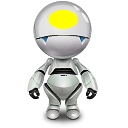
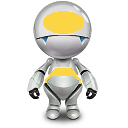
Improved Online LitterWorld demo
- Sensor to notify should_patrol and map_loaded
- Improved UI and graphical assets

Changed region(s): [[0.3125, 0.0625, 0.6562, 0.2812], [0.3438, 0.5312, 0.6562, 0.6562]]

diff --git a/simulations/ros2_bdi_on_litter_world/src/litter_world/recycling_agent/sensors/agent_area_sensor.cpp b/simulations/ros2_bdi_on_litter_world/src/litter_world/recycling_agent/sensors/agent_area_sensor.cpp
@@ -35,6 +35,8 @@ class AgentAreaSensor : public Sensor
         {
             srand (time (NULL));
             
+            this->declare_parameter("should_patrol", false);
+
             robot_name_ = this->get_parameter("agent_id").as_string();
             
             last_pose_.x = -1;
@@ -115,20 +117,24 @@ class AgentAreaSensor : public Sensor
         */
         void senseNewAgentPose(const Pose& curr_agent_pose, const Belief& proto_belief_agent_pose)
         {
+            // old agent position belief 
+            auto belief_agent_pose_del = proto_belief_agent_pose;
+            belief_agent_pose_del.params[0] = robot_name_;
+            belief_agent_pose_del.params[1] = buildCellName(last_pose_.x,last_pose_.y);
+
+            // new agent position belief
+            auto belief_agent_pose_add = proto_belief_agent_pose;
+            belief_agent_pose_add.params[0] = robot_name_;
+            belief_agent_pose_add.params[1] = buildCellName(curr_agent_pose.x,curr_agent_pose.y);
+
             if(curr_agent_pose.x != last_pose_.x || curr_agent_pose.y != last_pose_.y)
             {
                 // agent position has changed
                 same_pose_counter_ = 0; // reset same pose counter
                 // delete old agent position
-                auto belief_agent_pose_del = proto_belief_agent_pose;
-                belief_agent_pose_del.params[0] = robot_name_;
-                belief_agent_pose_del.params[1] = buildCellName(last_pose_.x,last_pose_.y);
                 sense(belief_agent_pose_del, UpdOperation::DEL);
 
                 // add new agent position
-                auto belief_agent_pose_add = proto_belief_agent_pose;
-                belief_agent_pose_add.params[0] = robot_name_;
-                belief_agent_pose_add.params[1] = buildCellName(curr_agent_pose.x,curr_agent_pose.y);
                 sense(belief_agent_pose_add, UpdOperation::ADD);
             }
             else
@@ -136,9 +142,15 @@ class AgentAreaSensor : public Sensor
             
             if(same_pose_counter_ > MAX_SAME_POSE)
             {
-                std::cout << "In the same position for too long..." << std::flush << std::endl;
-                senseShouldPatrol();
-                same_pose_counter_ = 0;
+                // make sure agent knows its current position
+                sense(belief_agent_pose_add, UpdOperation::ADD);
+
+                if(this->get_parameter("should_patrol").as_bool())
+                {
+                    std::cout << "In the same position for too long, triggering patrol mode..." << std::flush << std::endl;
+                    senseShouldPatrol();
+                    same_pose_counter_ = 0;
+                }
             }
         }
 

diff --git a/simulations/ros2_bdi_on_litter_world/src/litter_world/recycling_agent/sensors/load_map_sensor.cpp b/simulations/ros2_bdi_on_litter_world/src/litter_world/recycling_agent/sensors/load_map_sensor.cpp
@@ -76,10 +76,17 @@ class LoadMapSensor : public Sensor
                                     bsetAddAll.value.push_back(b);
                                 
                                 // std::cout << "sensing " << binPoses.size() << " binPoses" << std::flush << std::endl;
-                                senseAll(bsetAddAll, UpdOperation::ADD);
+                                if(belief_set_.value.size() < bsetAddAll.value.size())//still need to load all static info
+                                    senseAll(bsetAddAll, UpdOperation::ADD);
 
-                                if(belief_set_.value.size() >= bsetAddAll.value.size())//loaded all static info -> can quit
-                                    rclcpp::shutdown();
+                                else // loaded all static info -> can quit
+                                {
+                                    Belief bMapLoaded = getBeliefPrototype("map_loaded").value();
+                                    sense(bMapLoaded, UpdOperation::ADD);
+                                    for(auto b : belief_set_.value)
+                                        if(b.name == "map_loaded")//map loaded and agent knows it->can quit
+                                            rclcpp::shutdown();
+                                }
                             }
                         });
         }
@@ -208,12 +215,15 @@ int main(int argc, char ** argv)
   Belief b_proto_plastic_bin = (ManagedBelief::buildMBInstance("?pb", "plastic_bin")).toBelief();
   Belief b_proto_paper_bin = (ManagedBelief::buildMBInstance("?pb", "paper_bin")).toBelief();
   Belief b_proto_bin_pose = (ManagedBelief::buildMBPredicate("bin_pose", {ManagedParam{"?b", "bin"}, ManagedParam{"?c", "cell"}})).toBelief();
+  Belief b_proto_map_loaded = (ManagedBelief::buildMBPredicate("map_loaded", {})).toBelief();
   vector<Belief> proto_beliefs;
   proto_beliefs.push_back(b_proto_near);
   proto_beliefs.push_back(b_proto_free);
   proto_beliefs.push_back(b_proto_plastic_bin);
   proto_beliefs.push_back(b_proto_paper_bin);
   proto_beliefs.push_back(b_proto_bin_pose);
+  proto_beliefs.push_back(b_proto_map_loaded);
+  
   auto node = std::make_shared<LoadMapSensor>("load_map_sensor", proto_beliefs);
   rclcpp::spin(node);
 

diff --git a/simulations/litter_world/litter_world/litter_world.py b/simulations/litter_world/litter_world/litter_world.py
@@ -133,7 +133,7 @@ class LitterWorld():
         self.paper_litter_img_mini_ = self.paper_litter_img_mini_.resize((int(self.size_factor)-48,int(self.size_factor)-48))
         self.paper_litter_pic_mini_ = ImageTk.PhotoImage(self.paper_litter_img_mini_)
 
-        self.person_agent_img_ = self.person_agent_img_.resize((int(self.size_factor)-32,int(self.size_factor)-8))
+        self.person_agent_img_ = self.person_agent_img_.resize((int(self.size_factor)-8,int(self.size_factor)-8))
         self.person_agent_pic_ = ImageTk.PhotoImage(self.person_agent_img_)
 
 
@@ -425,7 +425,7 @@ class LitterWorld():
                 self.canvas_dynamic_objs_.append(self.canvas_.create_text(y+size-12, x+12, text=("{}").format(self.paper_agent_.holding), fill="black", font=('Helvetica {} bold'.format(font_size))))
 
             elif square_type == PERSON_CELL: #Draw our bro Paolo on the canvas.
-                self.canvas_dynamic_objs_.append(self.canvas_.create_image(y+16, x+4, anchor=tk.NW, image=self.person_agent_pic_))
+                self.canvas_dynamic_objs_.append(self.canvas_.create_image(y+4, x+4, anchor=tk.NW, image=self.person_agent_pic_))
             
             elif square_type == PAPER_LITTER_CELL:
                 self.canvas_dynamic_objs_.append(self.canvas_.create_image(y+12, x+12, anchor=tk.NW, image=self.paper_litter_pic_))

diff --git a/simulations/ros2_bdi_tests/launch/bdi_printing_robot.launch.py b/simulations/ros2_bdi_tests/launch/bdi_printing_robot.launch.py
@@ -74,8 +74,8 @@ def generate_launch_description():
             'pddl_file': bdi_tests_share_dir + '/pddl/printing-floor/printing-domain.pddl',
             'init_bset': bdi_tests_share_dir + '/launch/init_printing_floor/init_bset.yaml',
             'init_dset': bdi_tests_share_dir + '/launch/init_printing_floor/init_dset.yaml',
-            #'init_reactive_rules_set': bdi_tests_share_dir + '/launch/init_printing_floor/init_rrules_ant_fail.yaml',
-            'init_reactive_rules_set': bdi_tests_share_dir + '/launch/init_printing_floor/init_rrules_impr_sol.yaml',
+            'init_reactive_rules_set': bdi_tests_share_dir + '/launch/init_printing_floor/init_rrules_ant_fail.yaml',
+            #'init_reactive_rules_set': bdi_tests_share_dir + '/launch/init_printing_floor/init_rrules_impr_sol.yaml',
             'comp_plan_tries': 6,
             'exec_plan_tries': 4,
             'planning_mode':'online',

diff --git a/simulations/ros2_bdi_on_litter_world/launch/plastic_agent.launch.py b/simulations/ros2_bdi_on_litter_world/launch/plastic_agent.launch.py
@@ -60,7 +60,8 @@ def generate_launch_description():
         specific_params=[
             {"init_sleep": 4},
             {"sensing_freq": 1.0},
-            {"detection_depth": 2}
+            {"detection_depth": 2},
+            {"should_patrol": False}
         ])
 
     pmode = 'offline'
@@ -79,9 +80,9 @@ def generate_launch_description():
             'exec_plan_tries': 4,
             'planning_mode':pmode,
             'reschedule_policy': reschedule_policy,
-            'search_interval': 400,
+            'search_interval': 800,
             'min_commit_steps': 1,
-            'max_null_search_intervals': 12,
+            'max_null_search_intervals': 24,
             'debug_log_active': ['javaff', 'scheduler']
         },
         actions=[plastic_agent_move, plastic_agent_pickup, plastic_agent_recycle],

diff --git a/simulations/ros2_bdi_on_litter_world/launch/paper_agent.launch.py b/simulations/ros2_bdi_on_litter_world/launch/paper_agent.launch.py
@@ -60,7 +60,8 @@ def generate_launch_description():
         specific_params=[
             {"init_sleep": 4},
             {"sensing_freq": 1.0},
-            {"detection_depth": 2}
+            {"detection_depth": 2},
+            {"should_patrol": False}
         ])
 
     pmode = 'offline'
